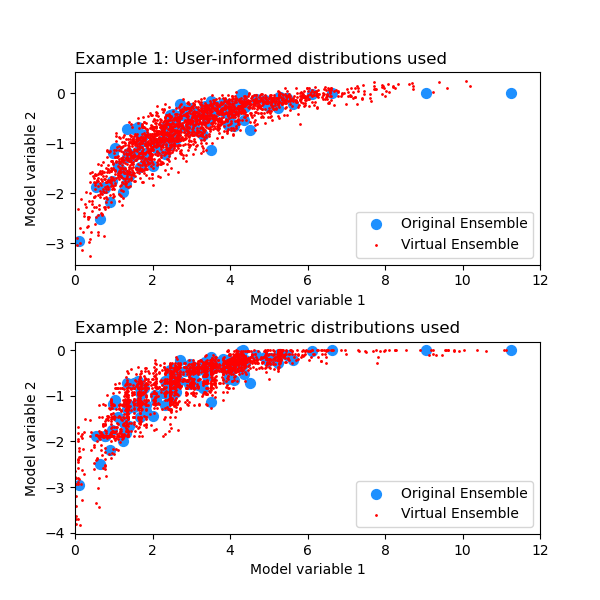
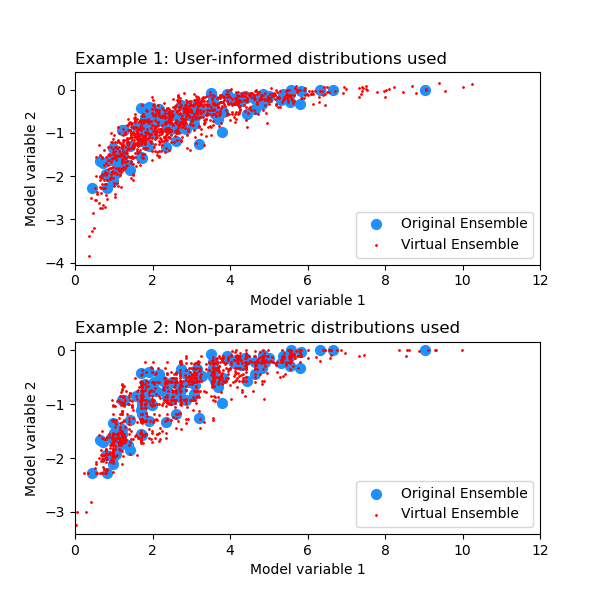
more demos

diff --git a/demo_pyPESE.py b/demo_pyPESE.py
@@ -51,7 +51,7 @@ original_ens[1,:] = skewnorm(-10).ppf( original_ens[1,:])
 '''
 
 # Number of virtual members to create
-ens_size_virtual  = 2000
+ens_size_virtual  = 1000
 
 # Example 1: Employ user-informed distributions
 # ---------------------------------------------
@@ -70,8 +70,8 @@ virtual_ensemble1 = pese_gc( original_ens, list_dist_classes, list_extra_args, e
 # ----------------------------------------------------------------------
 list_dist_classes = [bbrh, bbrh]
 list_extra_args = ([
-    {'min bound':    0, 'max bound': 1e9 },  # Arguments for the first variable
-    {'min bound':   -4, 'max bound': 0   }   # Arguments for the second variable
+    {'min bound':    0, 'max bound': original_ens[0,:].max()+1 },  # Arguments for the first variable
+    {'min bound':   original_ens[1,:].min() -1, 'max bound': 0   }   # Arguments for the second variable
 ])
 virtual_ensemble2 = pese_gc( original_ens, list_dist_classes, list_extra_args, ens_size_virtual, rng_seed=0 )
 
